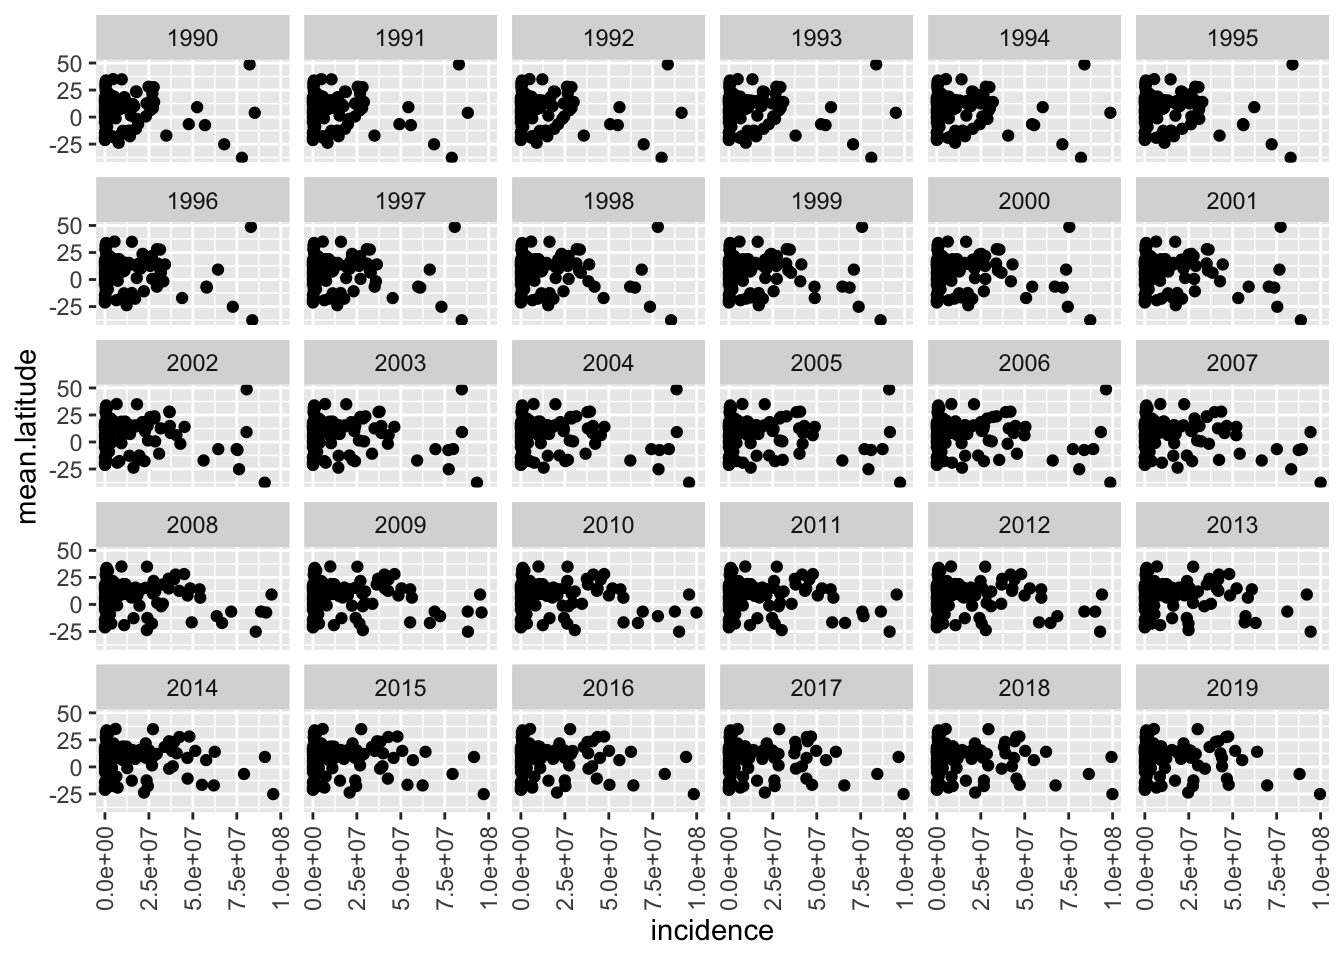
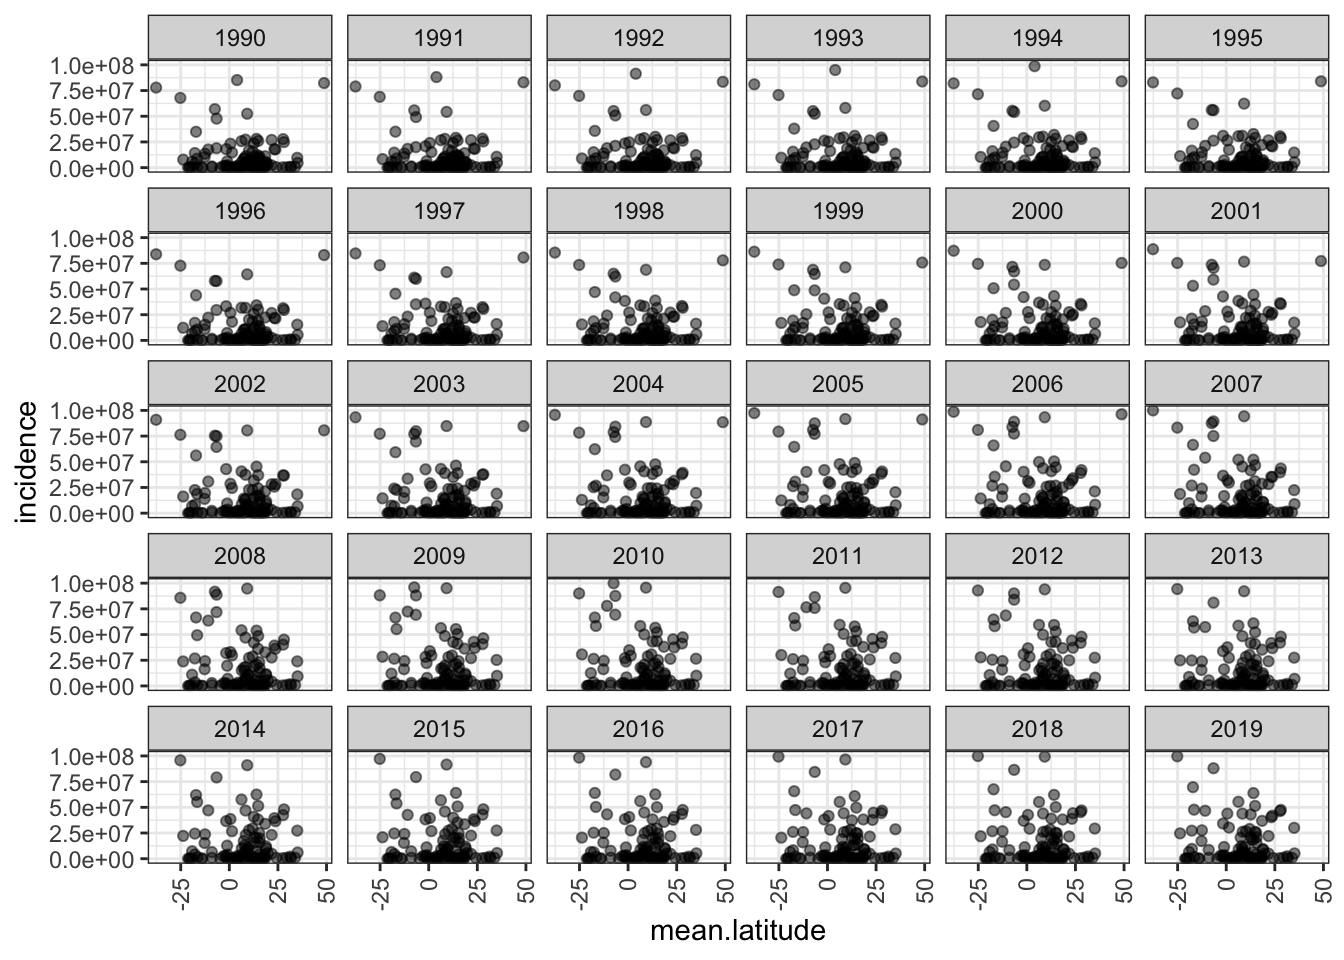
updated

diff --git a/_site/world.html b/_site/world.html
@@ -400,12 +400,16 @@ Attaching package: 'tsibble'</code></pre>
 <span id="cb10-6"><a href="#cb10-6" aria-hidden="true" tabindex="-1"></a>          <span class="at">incidence =</span> <span class="fu">sum</span>(incidence))  </span>
 <span id="cb10-7"><a href="#cb10-7" aria-hidden="true" tabindex="-1"></a></span>
 <span id="cb10-8"><a href="#cb10-8" aria-hidden="true" tabindex="-1"></a>sum.ll <span class="sc">%&gt;%</span> <span class="fu">filter</span>(<span class="dv">0</span> <span class="sc">&lt;</span> incidence <span class="sc">&amp;</span> incidence <span class="sc">&lt;</span> <span class="dv">100000000</span>) <span class="sc">%&gt;%</span></span>
-<span id="cb10-9"><a href="#cb10-9" aria-hidden="true" tabindex="-1"></a><span class="fu">ggplot</span>( <span class="fu">aes</span>(<span class="at">y=</span>mean.longitude, <span class="at">x=</span>incidence)) <span class="sc">+</span> <span class="fu">geom_point</span>() <span class="sc">+</span> <span class="fu">facet_wrap</span>(<span class="sc">~</span>year) <span class="sc">+</span> <span class="fu">theme</span>(<span class="at">axis.text.x =</span> <span class="fu">element_text</span>(<span class="at">angle =</span> <span class="dv">90</span>, <span class="at">vjust =</span> <span class="fl">0.5</span>, <span class="at">hjust=</span><span class="dv">1</span>))</span></code><button title="Copy to Clipboard" class="code-copy-button"><i class="bi"></i></button></pre></div>
+<span id="cb10-9"><a href="#cb10-9" aria-hidden="true" tabindex="-1"></a><span class="fu">ggplot</span>( <span class="fu">aes</span>(<span class="at">y=</span>mean.longitude, <span class="at">x=</span>incidence)) <span class="sc">+</span> <span class="fu">geom_point</span>(<span class="at">alpha=</span><span class="fl">0.5</span>) <span class="sc">+</span></span>
+<span id="cb10-10"><a href="#cb10-10" aria-hidden="true" tabindex="-1"></a>  <span class="fu">scale_fill_continuous</span>(<span class="at">type =</span> <span class="st">"viridis"</span>) <span class="sc">+</span></span>
+<span id="cb10-11"><a href="#cb10-11" aria-hidden="true" tabindex="-1"></a>  <span class="fu">theme_bw</span>()<span class="sc">+</span> <span class="fu">facet_wrap</span>(<span class="sc">~</span>year) <span class="sc">+</span> <span class="fu">theme</span>(<span class="at">axis.text.x =</span> <span class="fu">element_text</span>(<span class="at">angle =</span> <span class="dv">90</span>, <span class="at">vjust =</span> <span class="fl">0.5</span>, <span class="at">hjust=</span><span class="dv">1</span>))</span></code><button title="Copy to Clipboard" class="code-copy-button"><i class="bi"></i></button></pre></div>
 <div class="cell-output-display">
 <p><img src="world_files/figure-html/unnamed-chunk-5-1.png" class="img-fluid" width="672"></p>
 </div>
 <div class="sourceCode cell-code" id="cb11"><pre class="sourceCode r code-with-copy"><code class="sourceCode r"><span id="cb11-1"><a href="#cb11-1" aria-hidden="true" tabindex="-1"></a>sum.ll <span class="sc">%&gt;%</span> <span class="fu">filter</span>(<span class="dv">0</span> <span class="sc">&lt;</span> incidence <span class="sc">&amp;</span> incidence <span class="sc">&lt;</span> <span class="dv">100000000</span>) <span class="sc">%&gt;%</span></span>
-<span id="cb11-2"><a href="#cb11-2" aria-hidden="true" tabindex="-1"></a><span class="fu">ggplot</span>( <span class="fu">aes</span>(<span class="at">y=</span>mean.latitude, <span class="at">x=</span>incidence)) <span class="sc">+</span> <span class="fu">geom_point</span>() <span class="sc">+</span> <span class="fu">facet_wrap</span>(<span class="sc">~</span>year) <span class="sc">+</span> <span class="fu">theme</span>(<span class="at">axis.text.x =</span> <span class="fu">element_text</span>(<span class="at">angle =</span> <span class="dv">90</span>, <span class="at">vjust =</span> <span class="fl">0.5</span>, <span class="at">hjust=</span><span class="dv">1</span>))</span></code><button title="Copy to Clipboard" class="code-copy-button"><i class="bi"></i></button></pre></div>
+<span id="cb11-2"><a href="#cb11-2" aria-hidden="true" tabindex="-1"></a><span class="fu">ggplot</span>( <span class="fu">aes</span>(<span class="at">x=</span>mean.latitude, <span class="at">y=</span>incidence)) <span class="sc">+</span> <span class="fu">geom_point</span>(<span class="at">alpha=</span><span class="fl">0.5</span>) <span class="sc">+</span></span>
+<span id="cb11-3"><a href="#cb11-3" aria-hidden="true" tabindex="-1"></a>  <span class="fu">scale_fill_continuous</span>(<span class="at">type =</span> <span class="st">"viridis"</span>) <span class="sc">+</span></span>
+<span id="cb11-4"><a href="#cb11-4" aria-hidden="true" tabindex="-1"></a>  <span class="fu">theme_bw</span>()<span class="sc">+</span> <span class="fu">facet_wrap</span>(<span class="sc">~</span>year) <span class="sc">+</span> <span class="fu">theme</span>(<span class="at">axis.text.x =</span> <span class="fu">element_text</span>(<span class="at">angle =</span> <span class="dv">90</span>, <span class="at">vjust =</span> <span class="fl">0.5</span>, <span class="at">hjust=</span><span class="dv">1</span>))</span></code><button title="Copy to Clipboard" class="code-copy-button"><i class="bi"></i></button></pre></div>
 <div class="cell-output-display">
 <p><img src="world_files/figure-html/unnamed-chunk-5-2.png" class="img-fluid" width="672"></p>
 </div>
